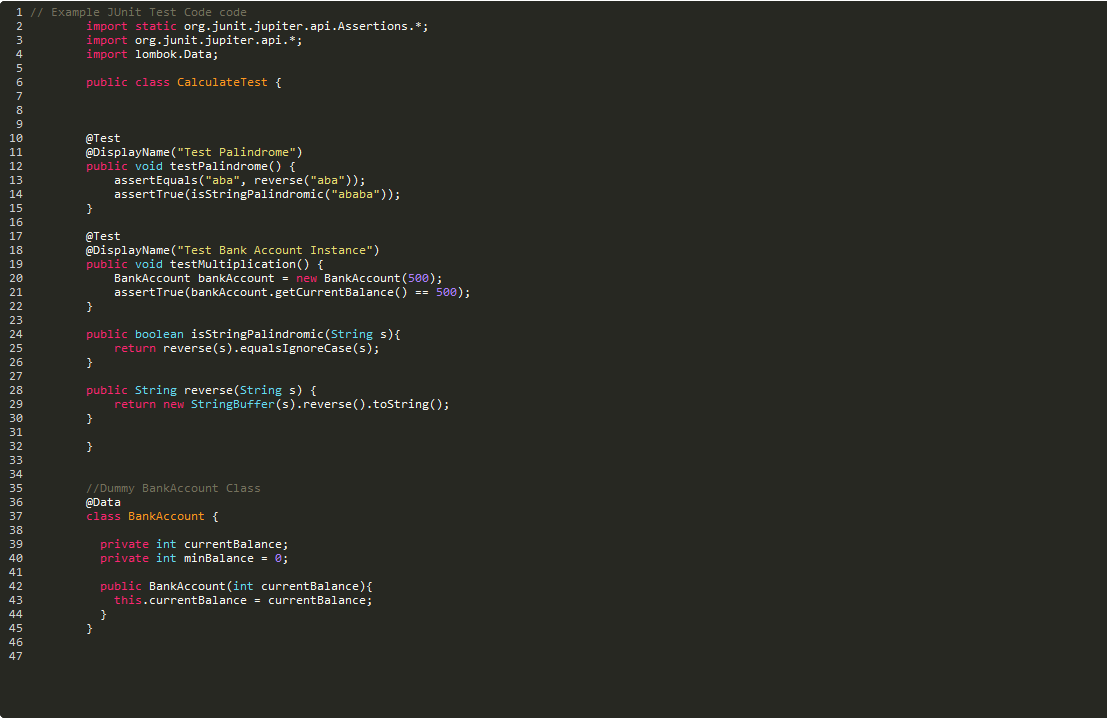
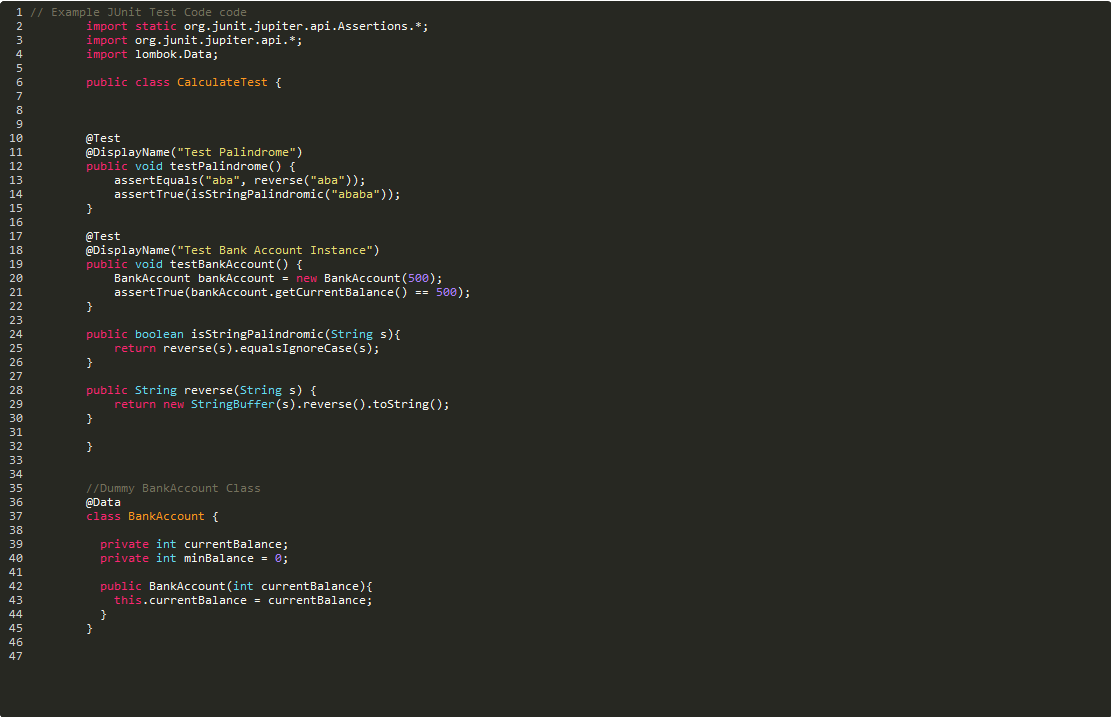
Fixed naming & Editor preview

diff --git a/src/main/resources/templates/index.html b/src/main/resources/templates/index.html
@@ -78,7 +78,7 @@
 
 		@Test
 		@DisplayName("Test Bank Account Instance")
-		public void testMultiplication() {
+		public void testBankAccount() {
             BankAccount bankAccount = new BankAccount(500);
             assertTrue(bankAccount.getCurrentBalance() == 500);
 		}
